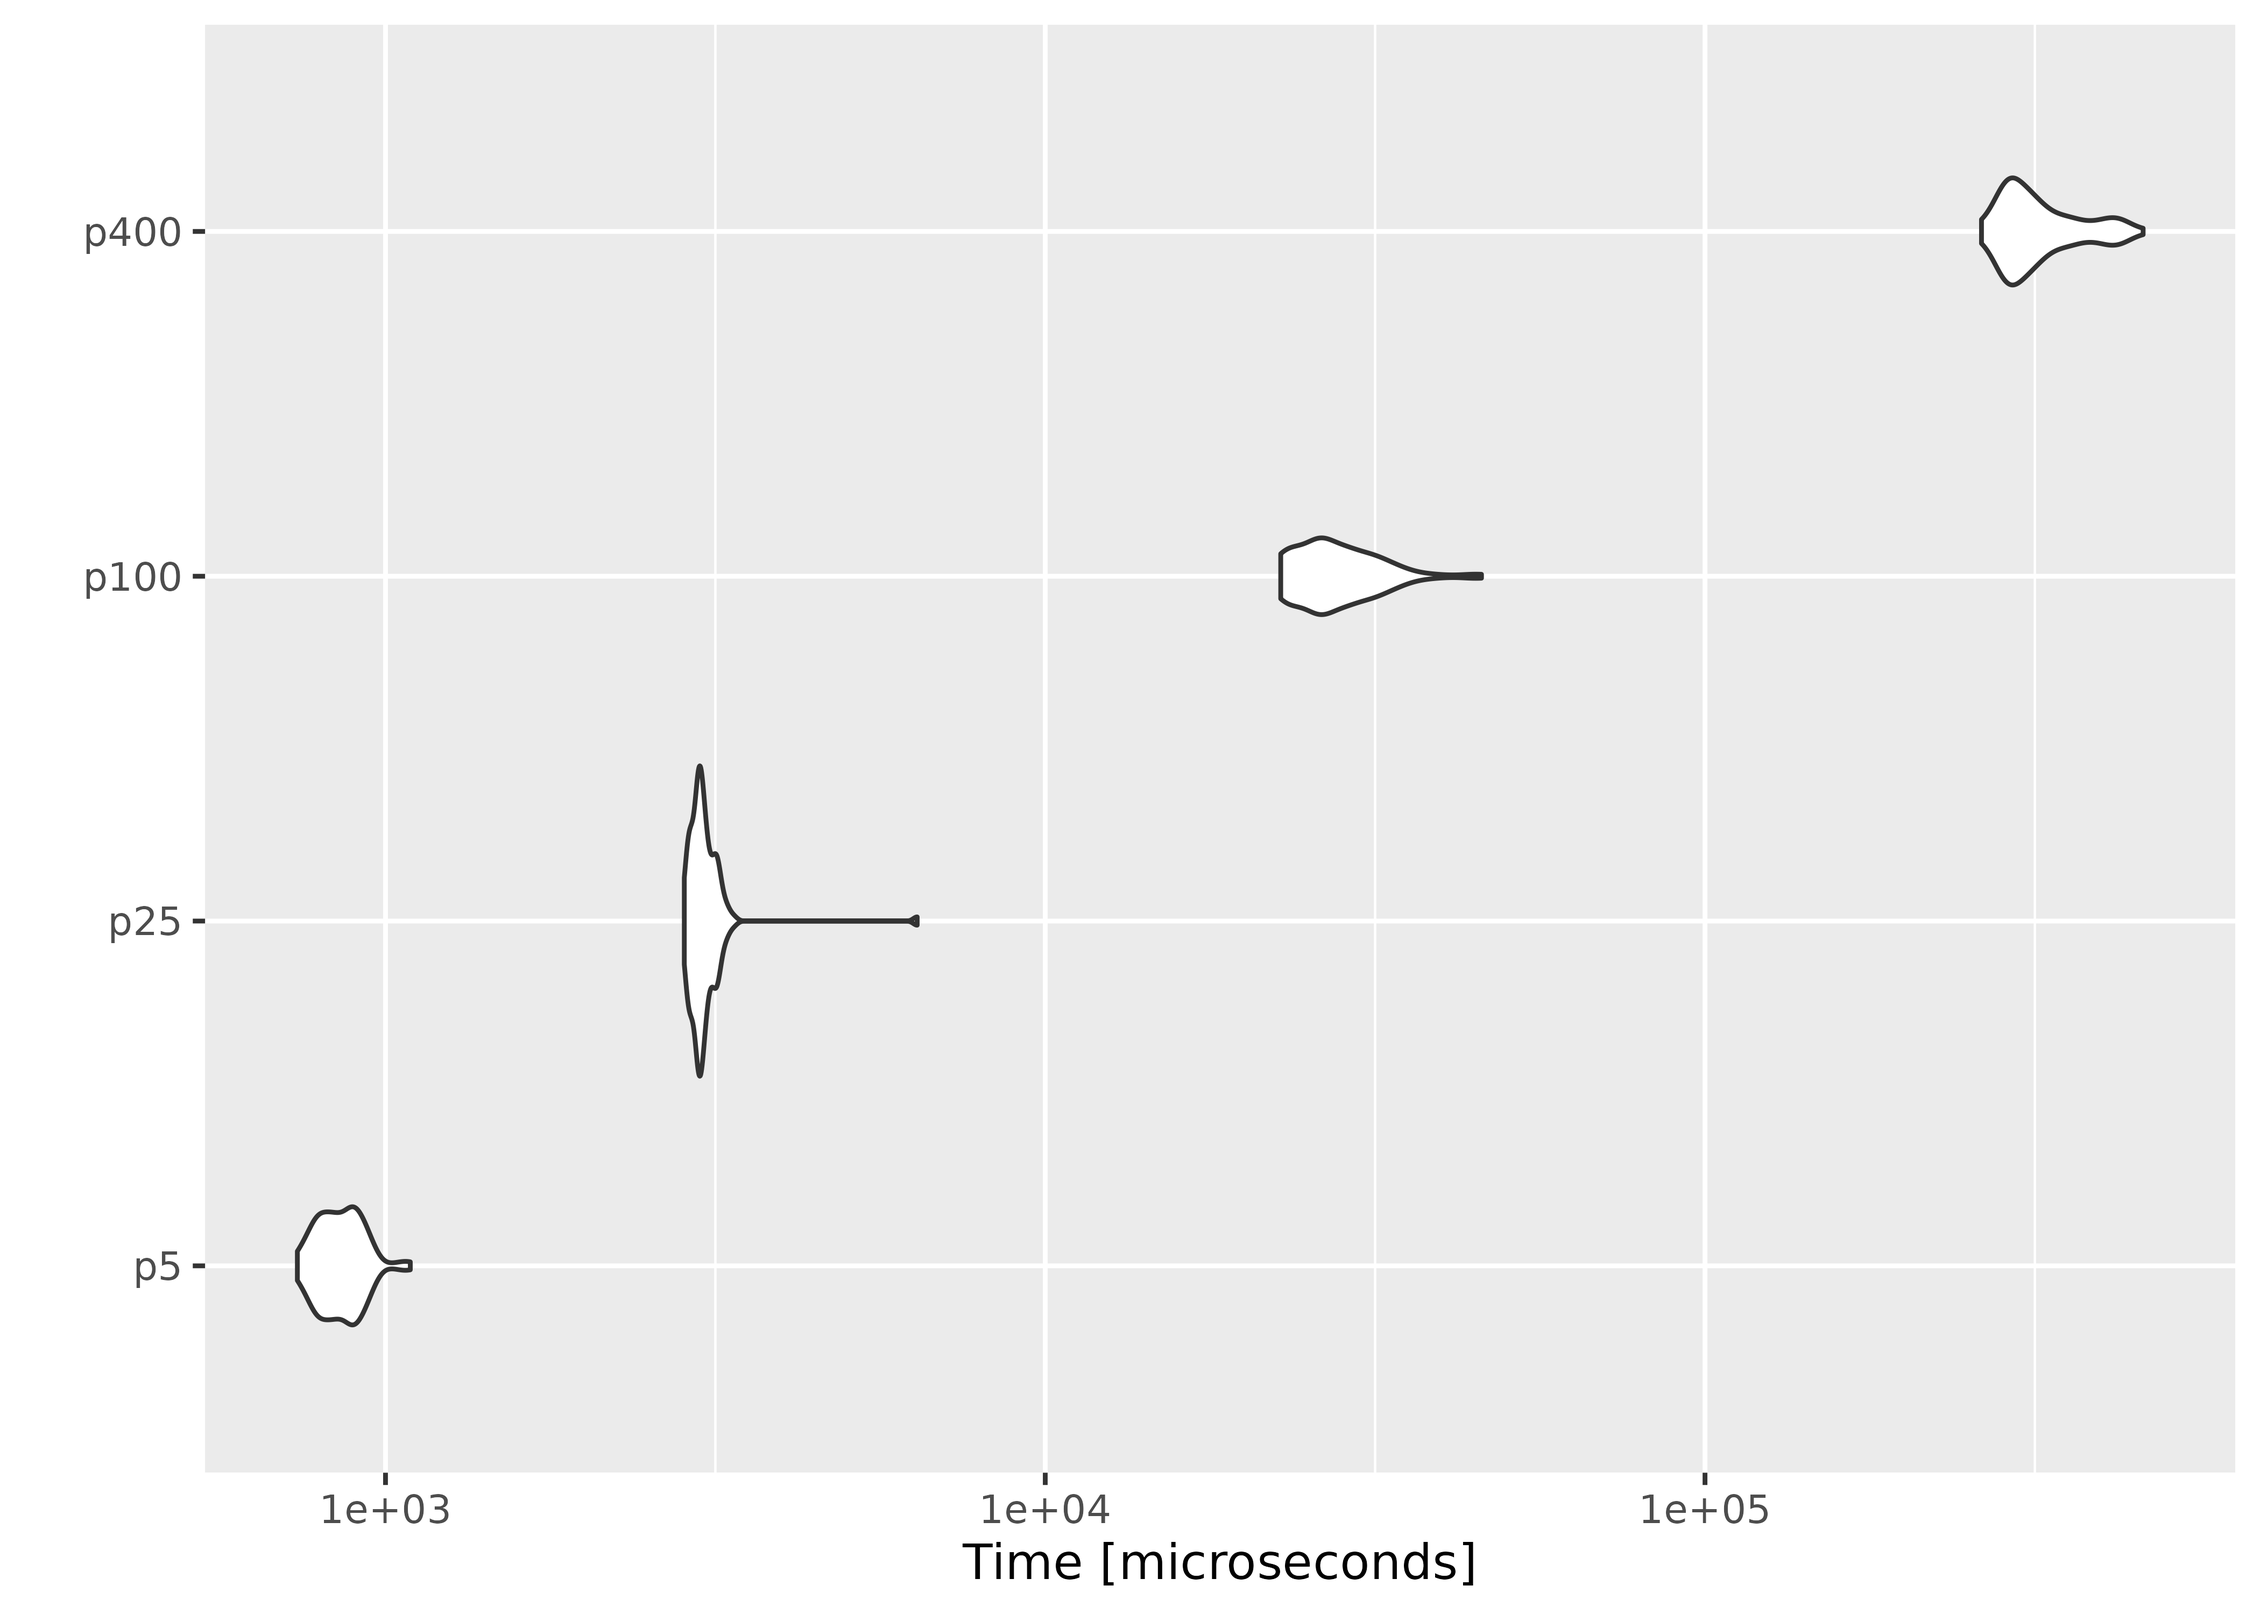
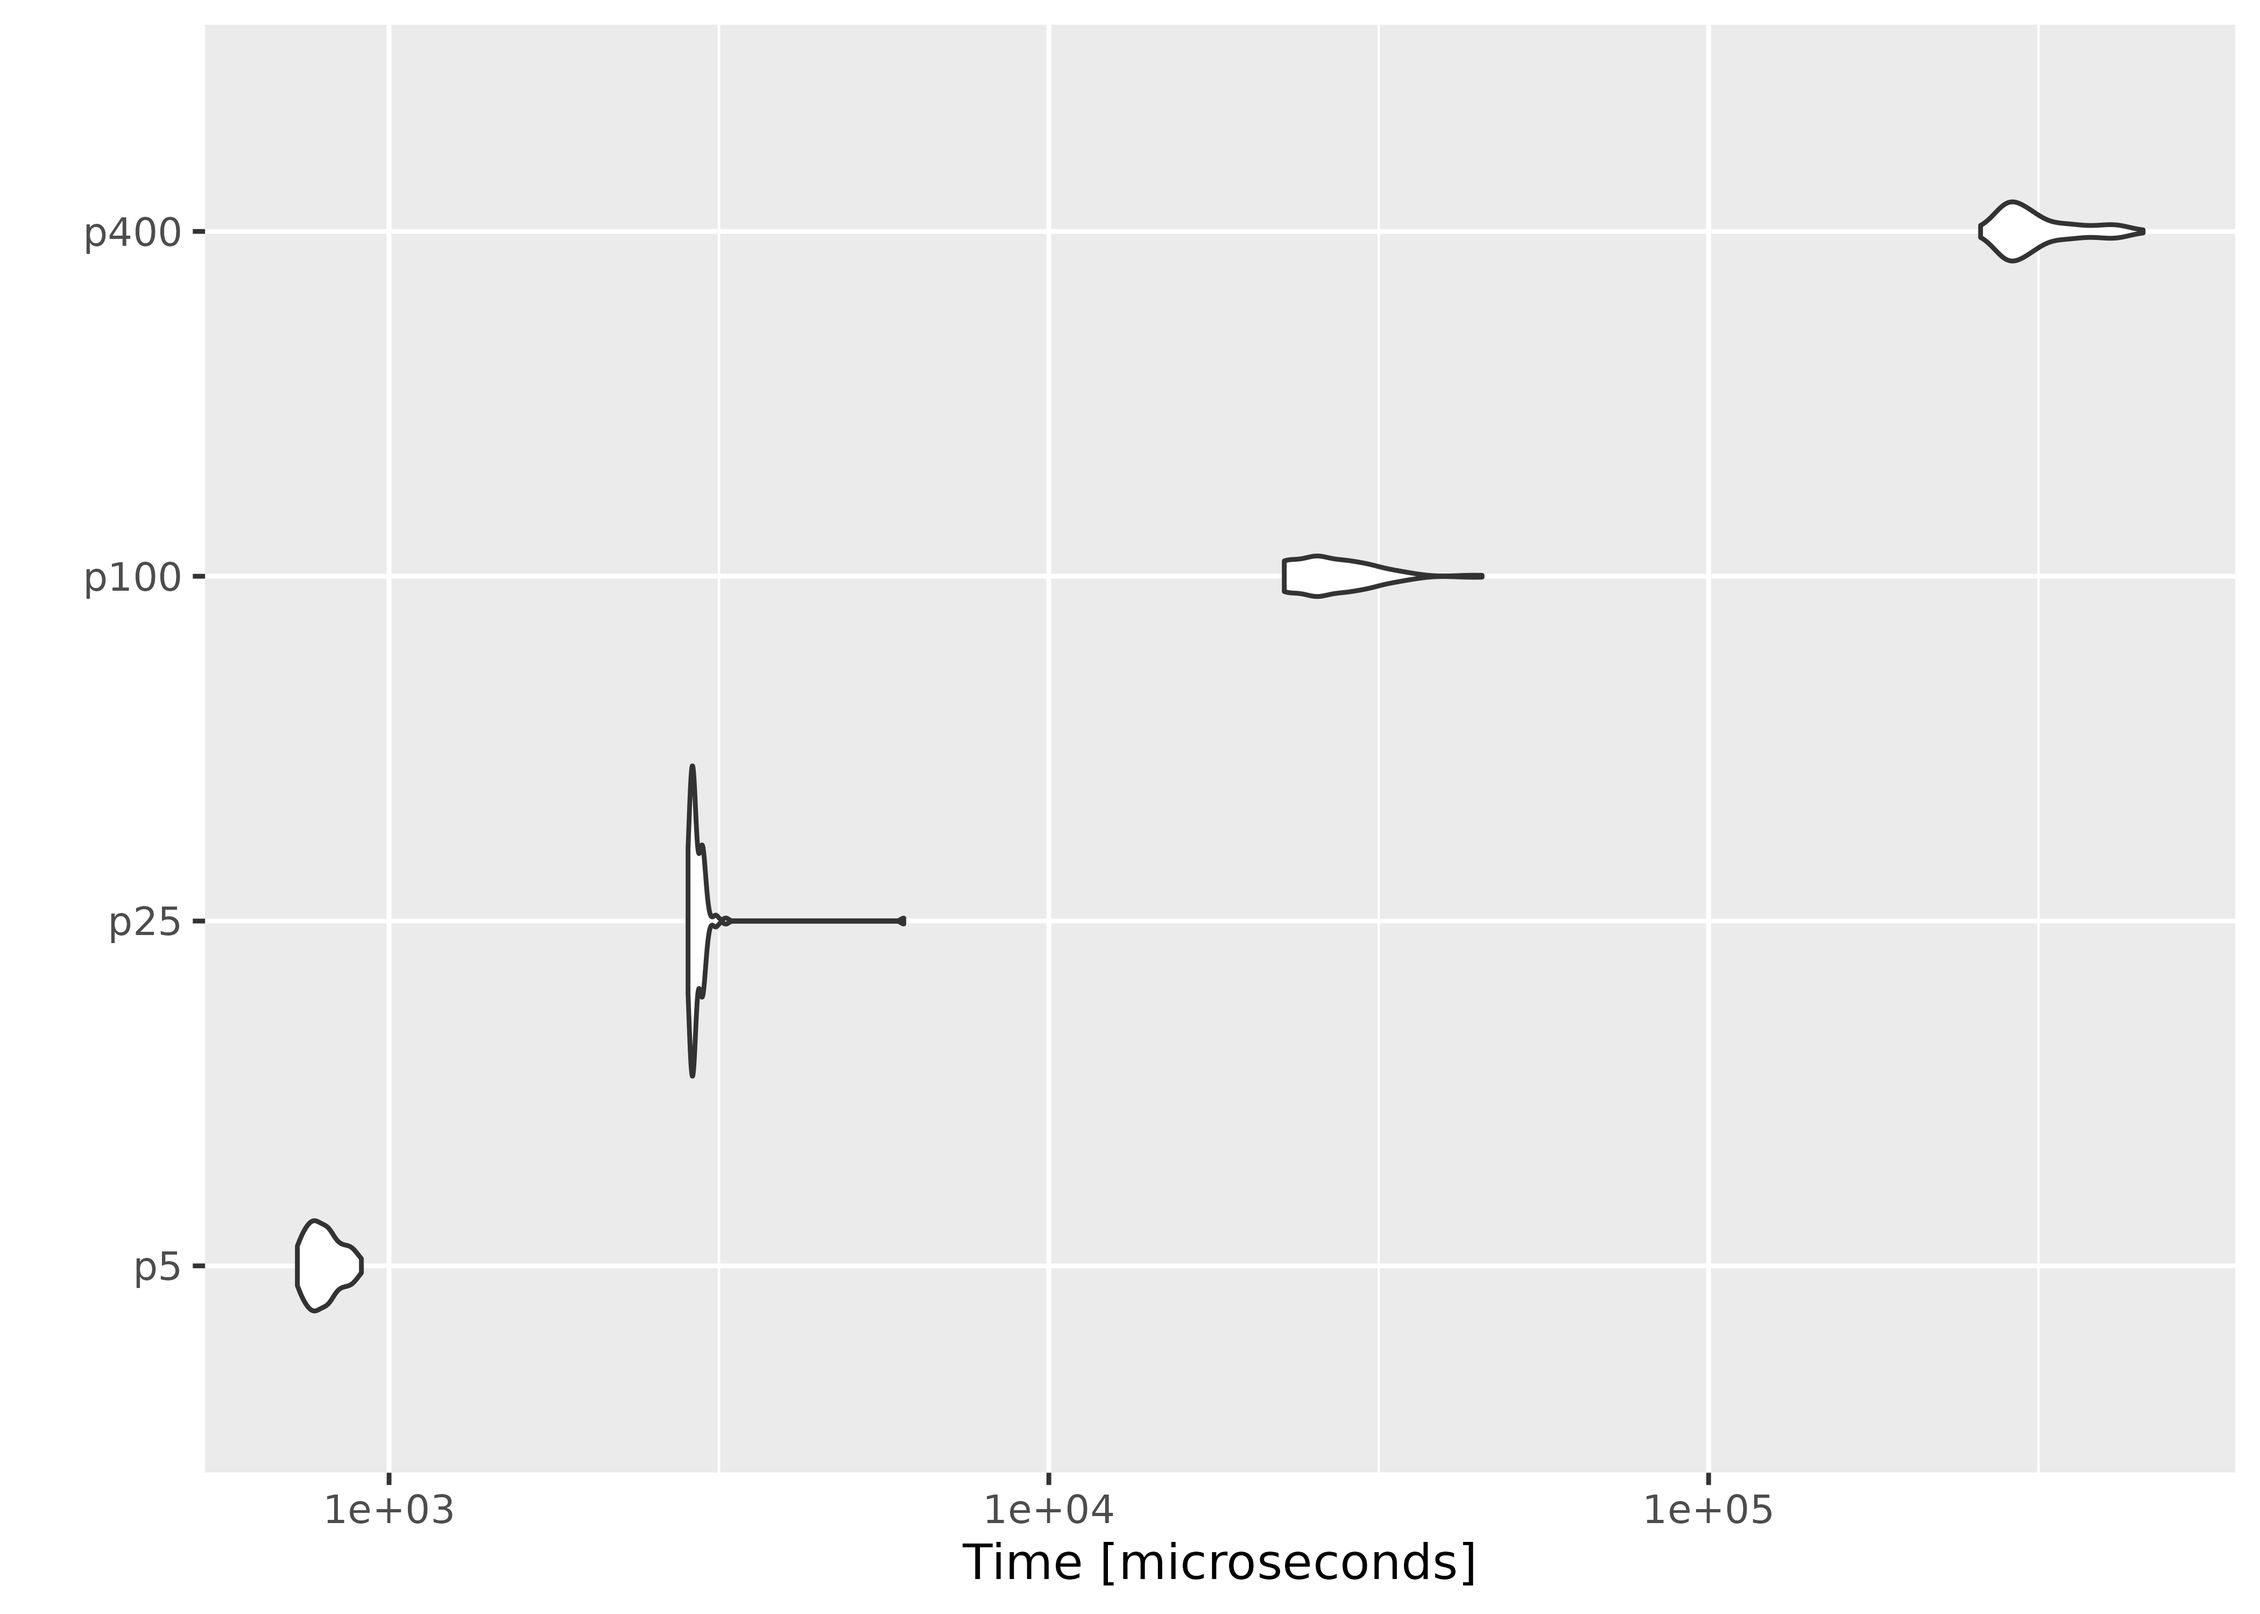
Deploying to gh-pages from @ ropensci/melt@51adbf34cf0dcbbed0b7a5357873284b5728db8a 🚀

diff --git a/articles/performance.html b/articles/performance.html
@@ -136,10 +136,10 @@ parameters increases with the number of observations fixed.</p>
 <code class="sourceCode R"><span><span class="va">result</span></span>
 <span><span class="co">#&gt; Unit: microseconds</span></span>
 <span><span class="co">#&gt;  expr        min          lq        mean     median         uq        max neval</span></span>
-<span><span class="co">#&gt;  n1e2    458.846    500.2435    551.9428    559.414    586.084    726.466   100</span></span>
-<span><span class="co">#&gt;  n1e3   1224.265   1437.3025   1575.1049   1541.281   1667.127   2601.104   100</span></span>
-<span><span class="co">#&gt;  n1e4  10852.131  12996.0420  15266.0842  15480.228  16646.840  29621.917   100</span></span>
-<span><span class="co">#&gt;  n1e5 187879.033 246856.6225 291084.0824 270193.456 351246.782 395568.986   100</span></span>
+<span><span class="co">#&gt;  n1e2    446.332    480.2055    514.4864    495.765    543.354    794.592   100</span></span>
+<span><span class="co">#&gt;  n1e3   1183.578   1369.7495   1490.8732   1465.633   1566.716   2540.949   100</span></span>
+<span><span class="co">#&gt;  n1e4  10792.537  12719.1460  14723.8774  15188.205  16075.190  21759.240   100</span></span>
+<span><span class="co">#&gt;  n1e5 177503.935 234676.4840 275840.2809 260114.220 332827.405 375691.615   100</span></span>
 <span><span class="co">#&gt;  cld</span></span>
 <span><span class="co">#&gt;  a  </span></span>
 <span><span class="co">#&gt;  a  </span></span>
@@ -177,10 +177,10 @@ likelihood at zero vectors of different sizes.</p>
 <code class="sourceCode R"><span><span class="va">result2</span></span>
 <span><span class="co">#&gt; Unit: microseconds</span></span>
 <span><span class="co">#&gt;  expr        min          lq        mean     median          uq        max</span></span>
-<span><span class="co">#&gt;    p5    735.192    798.6205    856.1624    849.270    902.3745   1090.435</span></span>
-<span><span class="co">#&gt;   p25   2837.295   2953.5515   3059.9860   3000.539   3105.5460   6395.475</span></span>
-<span><span class="co">#&gt;  p100  22746.708  25403.7015  27942.3944  26422.452  30697.2250  45835.704</span></span>
-<span><span class="co">#&gt;  p400 262476.280 288086.7725 323026.6083 309275.097 346786.8635 461427.686</span></span>
+<span><span class="co">#&gt;    p5    726.104    759.9075    796.6632    787.293    825.9355    907.903</span></span>
+<span><span class="co">#&gt;   p25   2838.784   2874.3050   2953.1253   2898.070   2979.6965   6027.801</span></span>
+<span><span class="co">#&gt;  p100  22742.213  25272.8225  27263.1869  25588.020  30249.0330  45361.517</span></span>
+<span><span class="co">#&gt;  p400 258341.974 283903.0375 317096.3071 303725.993 342429.7785 455603.667</span></span>
 <span><span class="co">#&gt;  neval cld</span></span>
 <span><span class="co">#&gt;    100 a  </span></span>
 <span><span class="co">#&gt;    100 a  </span></span>

diff --git a/news/index.html b/news/index.html
@@ -61,7 +61,7 @@
     </div>
 
     <div class="section level2">
-<h2 class="page-header" data-toc-text="1.11.2" id="melt-1112">melt 1.11.2<a class="anchor" aria-label="anchor" href="#melt-1112"></a></h2>
+<h2 class="page-header" data-toc-text="1.11.2" id="melt-1112">melt 1.11.2<small>2024-03-21</small><a class="anchor" aria-label="anchor" href="#melt-1112"></a></h2>
 <div class="section level3">
 <h3 id="minor-improvements-1-11-2">MINOR IMPROVEMENTS<a class="anchor" aria-label="anchor" href="#minor-improvements-1-11-2"></a></h3>
 <ul><li>The package vignette has been updated.</li>
